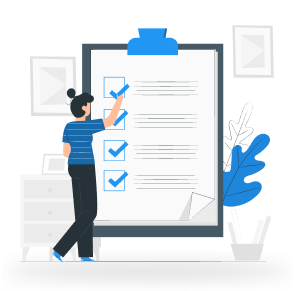
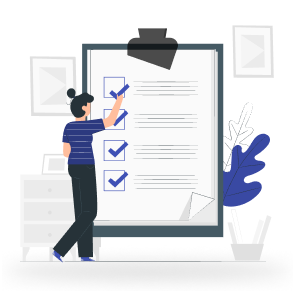
onboarding updated

diff --git a/lib/domain/presentation/pages/ai/ai_assistan_page.dart b/lib/domain/presentation/pages/ai/ai_assistan_page.dart
@@ -28,16 +28,46 @@ class _AiAssistantPageState extends State<AiAssistantPage> {
   final stt.SpeechToText _speech = stt.SpeechToText();
   final FlutterTts _flutterTts = FlutterTts();
   bool _isListening = false;
-
+  bool _isInitialized = false;
+  bool _isLoading = false;
   String? username;
   @override
   void initState() {
     super.initState();
-    _initializeSpeech();
-    _initializeTts();
-
-    _loadUserName();
+   
+    _setupAssistant();
   }
+   Future<void> _setupAssistant() async {
+    setState(() => _isLoading = true);
+    try {
+      await _initializeSpeech();
+      await _initializeTts();
+      await AiAssistantService.initialize();
+      await _loadUserName();
+      setState(() => _isInitialized = true);
+    } catch (e) {
+      print('Setup error: $e');
+      _showErrorDialog('Uygulama başlatılamadı: $e');
+    } finally {
+      setState(() => _isLoading = false);
+    }
+  }
+  void _showErrorDialog(String message) {
+    showDialog(
+      context: context,
+      builder: (context) => AlertDialog(
+        title: Text('Hata'),
+        content: Text(message),
+        actions: [
+          TextButton(
+            onPressed: () => Navigator.pop(context),
+            child: Text('Tamam'),
+          ),
+        ],
+      ),
+    );
+  }
+ 
 
   // konuşma tanıma başlat
  Future<void> _initializeSpeech() async {
@@ -72,41 +102,77 @@ class _AiAssistantPageState extends State<AiAssistantPage> {
   Future<void> _speak(String text) async {
     await _flutterTts.speak(text);
   }
+   Future<bool> _handleMicrophonePermission() async {
+    PermissionStatus status = await Permission.microphone.status;
+    
+    if (status.isDenied) {
+      // İzin henüz istenmemiş, kullanıcıdan iste
+      status = await Permission.microphone.request();
+    }
+
+    if (status.isPermanentlyDenied) {
+      // Kullanıcı izni kalıcı olarak reddetmiş, ayarlara yönlendir
+      showDialog(
+        context: context,
+        builder: (context) => AlertDialog(
+          title: Text('Mikrofon İzni Gerekli'),
+          content: Text('Sesli komut özelliğini kullanmak için mikrofon iznine ihtiyaç var. Lütfen ayarlardan mikrofon iznini verin.'),
+          actions: [
+            TextButton(
+              onPressed: () => Navigator.pop(context),
+              child: Text('İptal'),
+            ),
+            TextButton(
+              onPressed: () => openAppSettings(),
+              child: Text('Ayarlara Git'),
+            ),
+          ],
+        ),
+      );
+      return false;
+    }
+
+    return status.isGranted;
+  }
   // Sesle yazma
  void _listen() async {
-  try {
-    if (!_isListening) {
-      print("Starting listening...");
-      if (!_speech.isAvailable) {
-        await _initializeSpeech();
+    try {
+      // Mikrofon iznini kontrol et
+      bool hasPermission = await _handleMicrophonePermission();
+      if (!hasPermission) {
+        return;
       }
-      
-      setState(() => _isListening = true);
-      await _speech.listen(
-        onResult: (result) {
-          print("Speech result: ${result.recognizedWords}");
-          setState(() {
-            _controller.text = result.recognizedWords;
-            if (result.finalResult) {
-              _sendMessage(_controller.text);
-              _isListening = false;
-            }
-          });
-        },
-        localeId: "tr_TR",
-        listenFor: Duration(seconds: 60),
-        pauseFor: Duration(seconds: 5),
-      );
-    } else {
+
+      if (!_isListening) {
+        if (!_speech.isAvailable) {
+          await _initializeSpeech();
+        }
+        
+        setState(() => _isListening = true);
+        await _speech.listen(
+          onResult: (result) {
+            setState(() {
+              _controller.text = result.recognizedWords;
+              if (result.finalResult) {
+                _sendMessage(_controller.text);
+                _isListening = false;
+              }
+            });
+          },
+          localeId: "tr-TR",
+          listenFor: Duration(seconds: 30),
+          pauseFor: Duration(seconds: 3),
+        );
+      } else {
+        setState(() => _isListening = false);
+        await _speech.stop();
+      }
+    } catch (e) {
+      print("Listen error: $e");
       setState(() => _isListening = false);
-      await _speech.stop();
-      print("Stopped listening");
+      _showErrorDialog('Ses tanıma başlatılamadı: $e');
     }
-  } catch (e) {
-    print("Listen error: $e");
-    setState(() => _isListening = false);
   }
-}
 
   Future<void> _loadUserName() async {
     //String? userName = await LocalStorageService.getUserName();
@@ -120,46 +186,66 @@ class _AiAssistantPageState extends State<AiAssistantPage> {
   }
 
   void _sendMessage(String text) {
-    if (text.trim().isEmpty) return;
+  final trimmedText = text.trim();
+  if (trimmedText.isEmpty) return;
 
-    setState(() {
-      _messages.add(Message(text, true));
-      _controller.clear();
-    });
-
-    // Mesaj gönderildikten sonra en alta scroll
-    Future.delayed(Duration(milliseconds: 100), () {
-      _scrollController.animateTo(
-        _scrollController.position.maxScrollExtent,
-        duration: Duration(milliseconds: 300),
-        curve: Curves.easeOut,
-      );
-    });
-    // AI Yanıtını Al
-    _getAIResponse(text);
+  if (!_isInitialized) {
+    _showErrorDialog('AI servisi henüz hazır değil');
+    return;
   }
 
-  Future<void> _getAIResponse(String userMessage) async {
+  setState(() {
+    _messages.add(Message(trimmedText, true));
+    _controller.clear();
+  });
+
+  _getAIResponse(trimmedText);
+}
+
+   Future<void> _getAIResponse(String userMessage) async {
+    if (!_isInitialized) {
+      _showErrorDialog('AI servisi henüz hazır değil');
+      return;
+    }
+
+    // Yazıyor... mesajını ekle
+    final typingMessageIndex = _messages.length;
     setState(() {
-      _messages.add(Message("Yazıyor...", false)); // Kullanıcı beklediğini görebilir
+      _isLoading = true;
+      _messages.add(Message("Yazıyor...", false));
     });
 
-    String aiResponse = await AiAssistantService.getAIResponse(userMessage);
+    try {
+      final aiResponse = await AiAssistantService.getAIResponse(userMessage);
+      setState(() {
+        // Yazıyor... mesajını kaldır ve AI yanıtını ekle
+        _messages.removeAt(typingMessageIndex);
+        _messages.add(Message(aiResponse, false));
+        _isLoading = false;
+      });
 
-    setState(() {
-      _messages.removeLast(); // "Yapay Zeka yazıyor..." mesajını kaldır
-      _messages.add(Message(aiResponse, false)); // Gerçek yanıtı ekle
-    });
-
-    // Yanıt alındıktan sonra en alta scroll
-    Future.delayed(Duration(milliseconds: 100), () {
-      _scrollController.animateTo(
-        _scrollController.position.maxScrollExtent,
-        duration: Duration(milliseconds: 300),
-        curve: Curves.easeOut,
-      );
-    });
+      await _scrollToBottom();
+    } catch (e) {
+      setState(() {
+        // Hata durumunda Yazıyor... mesajını kaldır
+        _messages.removeAt(typingMessageIndex);
+        _messages.add(Message("Üzgünüm, bir hata oluştu. Lütfen tekrar deneyin.", false));
+        _isLoading = false;
+      });
+      print('AI Response Error: $e');
+    }
+}
+// Scroll helper method
+Future<void> _scrollToBottom() async {
+  await Future.delayed(Duration(milliseconds: 100));
+  if (_scrollController.hasClients) {
+    await _scrollController.animateTo(
+      _scrollController.position.maxScrollExtent,
+      duration: Duration(milliseconds: 300),
+      curve: Curves.easeOut,
+    );
   }
+}
 
  @override
 Widget build(BuildContext context) {

diff --git a/lib/domain/presentation/pages/onboarding/onboarding_page3.dart b/lib/domain/presentation/pages/onboarding/onboarding_page3.dart
@@ -75,7 +75,7 @@ class OnboardingPage3 extends StatelessWidget {
                 Container(
                   padding: EdgeInsets.all(16),
                   decoration: BoxDecoration(
-                    color: AppColors.success.withOpacity(0.1),
+                    color: AppColors.secondary.withOpacity(0.1),
                     borderRadius: BorderRadius.circular(12),
                   ),
                   child: Row(
@@ -83,7 +83,7 @@ class OnboardingPage3 extends StatelessWidget {
                     children: [
                       Icon(
                         Icons.notifications_active_outlined,
-                        color: AppColors.success,
+                        color: AppColors.primary,
                         size: isSmallScreen ? 24 : 28,
                       ),
                       SizedBox(width: 12),
@@ -93,7 +93,7 @@ class OnboardingPage3 extends StatelessWidget {
                           Text(
                             "Akıllı Hatırlatıcılar",
                             style: TextStyle(
-                              color: AppColors.success,
+                              color: AppColors.primary,
                               fontWeight: FontWeight.bold,
                               fontSize: isSmallScreen ? 14 : 16,
                             ),
@@ -102,7 +102,7 @@ class OnboardingPage3 extends StatelessWidget {
                           Text(
                             "Zamanında bildirim al",
                             style: TextStyle(
-                              color: AppColors.success.withOpacity(0.8),
+                              color: AppColors.primary.withOpacity(0.8),
                               fontSize: isSmallScreen ? 12 : 14,
                             ),
                           ),

diff --git a/lib/data/repositories/ai_asistant_service.dart b/lib/data/repositories/ai_asistant_service.dart
@@ -4,12 +4,33 @@ import 'package:http/http.dart' as http;
 import 'dart:convert';
 
 class AiAssistantService {
+    static bool _isInitialized = false;
+  static late GenerativeModel model;
+
   static String apiKey = dotenv.env['GEMINI_API_KEY'] ??
       ""; // Buraya kendi OpenAI API anahtarını ekle
-  static final model = GenerativeModel(
-    model: 'gemini-pro',
-    apiKey: apiKey,
-  );
+  static Future<void> initialize() async {
+    if (!_isInitialized) {
+      try {
+        await dotenv.load(fileName: ".env");
+        apiKey = dotenv.env['GEMINI_API_KEY'] ?? "";
+        
+        if (apiKey.isEmpty) {
+          throw Exception("API anahtarı bulunamadı!");
+        }
+
+        model = GenerativeModel(
+          model: 'gemini-pro',
+          apiKey: apiKey,
+        );
+
+        _isInitialized = true;
+      } catch (e) {
+        print('AI Service initialization error: $e');
+        throw Exception('AI servisi başlatılamadı: $e');
+      }
+    }
+  }
   static Future<String> getAIResponse(String userMessage) async {
     try {
       if (apiKey.isEmpty) {
